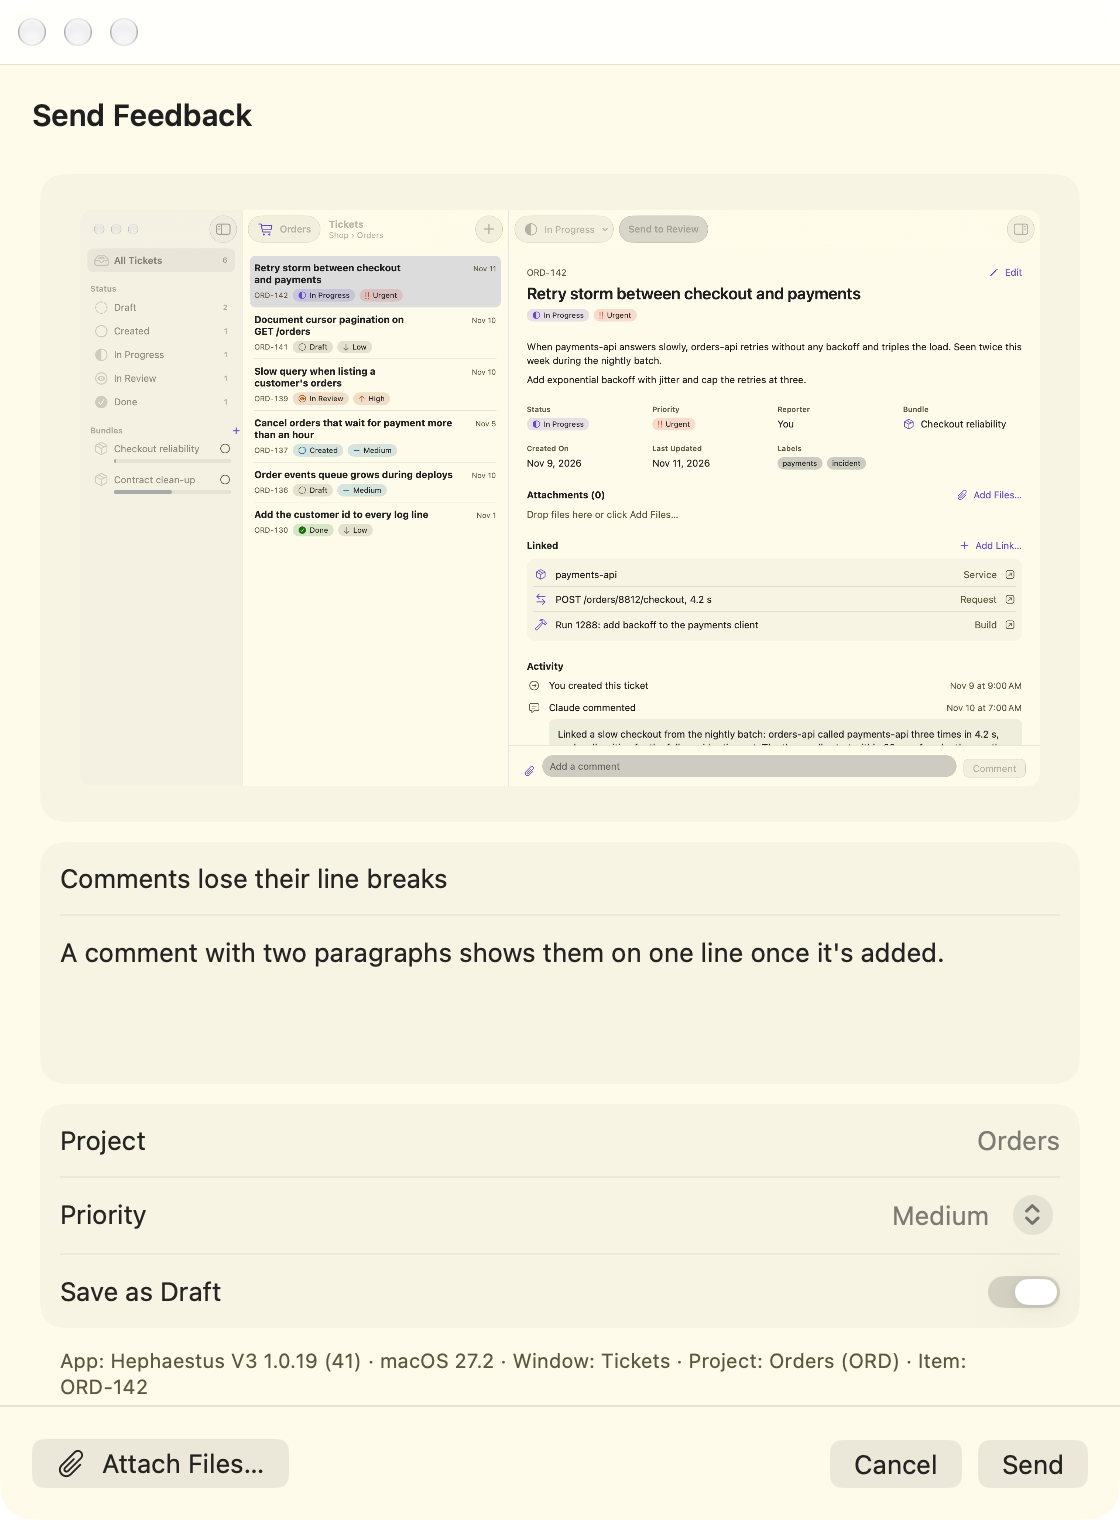
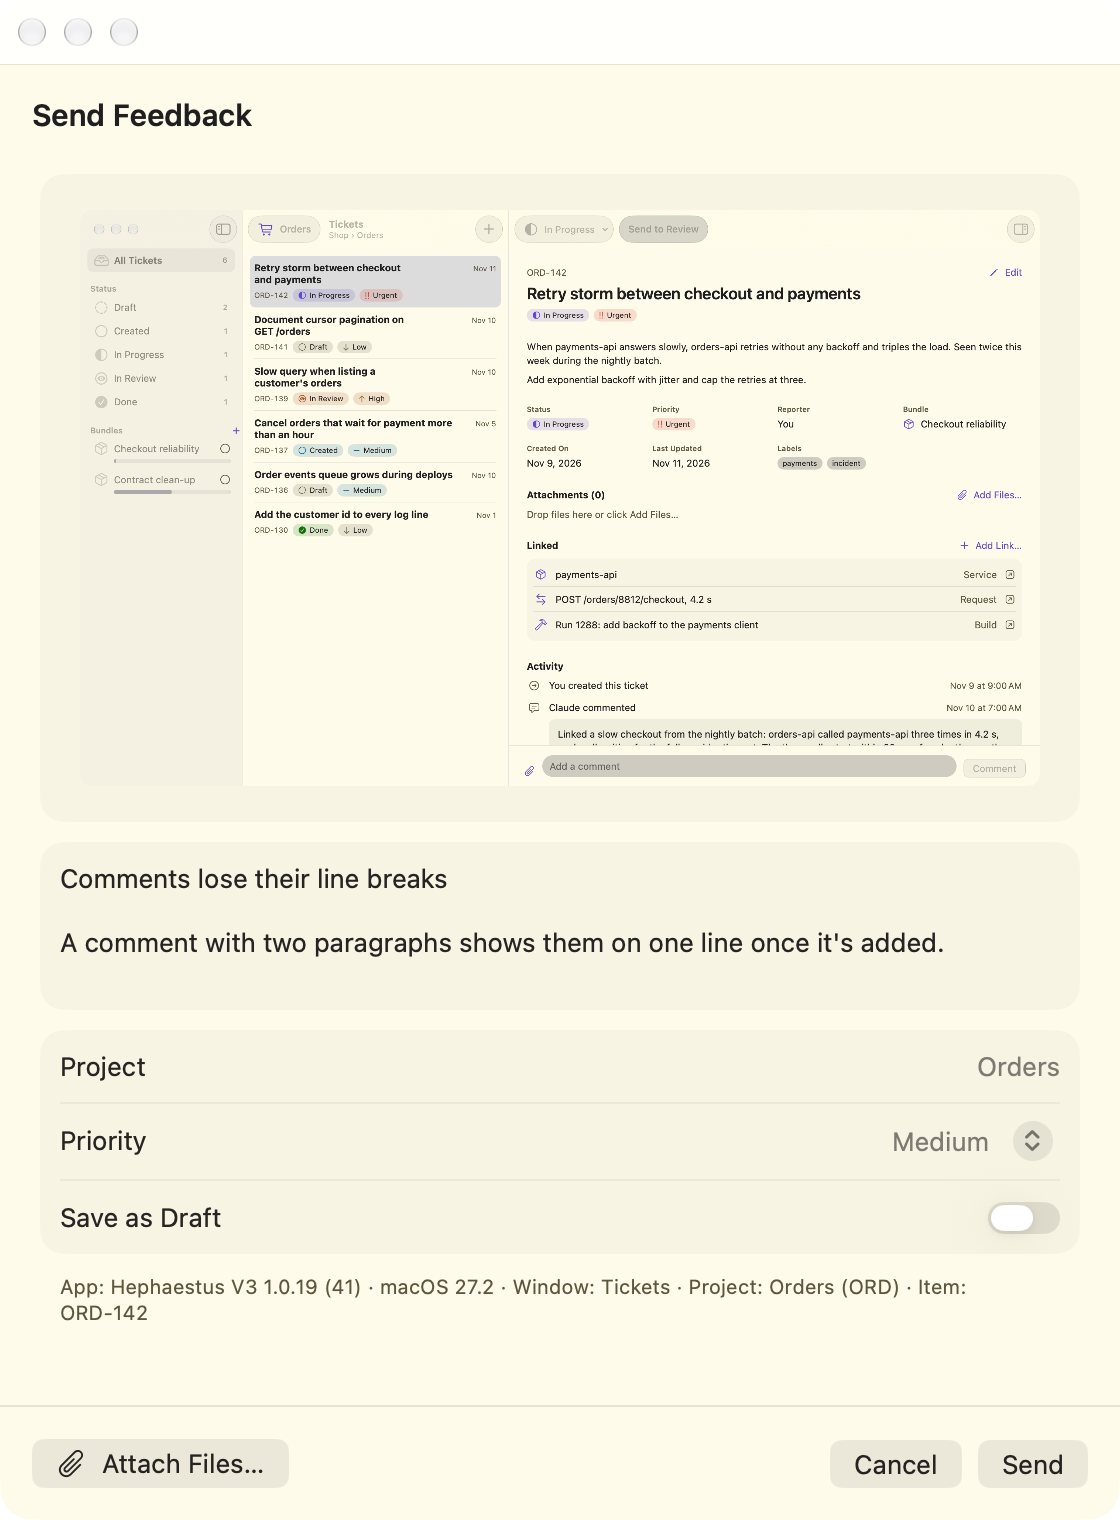
Feedback: no title field, Save as Draft off by default
The Send Feedback sheet drops its Title field: the ticket takes the
description's first line as its title, the ticket rules' provisional title,
so Send now waits for a description. Save as Draft starts off, so feedback
goes into the workflow at once.

diff --git a/HephaestusV3Kit/Tests/TicketsKitTests/FeedbackTicketTests.swift b/HephaestusV3Kit/Tests/TicketsKitTests/FeedbackTicketTests.swift
@@ -40,18 +40,19 @@ struct FeedbackTicketTests {
         FeedbackTicketModel(project: Project.sample("ORD")!, screenshot: screenshot, context: context, store: store)
     }
 
-    @Test("Send creates New Ticket's ticket in the feedback project, the context after the description, then attaches the screenshot and the files in one request")
+    @Test("Send creates New Ticket's ticket without a title, out of the drafts, in the feedback project, the context after the description, then attaches the screenshot and the files in one request")
     func send() async {
         let store = RecordingTicketStore()
         let model = model(store)
-        model.draft.title = "The ladybug hides"
-        model.draft.details = "  It sits under the divider.\n"
+        #expect(!model.draft.startsAsDraft)
+        #expect(model.draft.title.isEmpty)
+        model.draft.details = "  The ladybug hides\nIt sits under the divider.\n"
         let log = URL(fileURLWithPath: "/tmp/feedback/app.log")
         model.add([log])
         #expect(await model.send() == "FB-1")
         var expected = NewTicketDraft(projectID: "ORD")
-        expected.title = "The ladybug hides"
-        expected.details = "It sits under the divider.\n\n" + context
+        expected.startsAsDraft = false
+        expected.details = "The ladybug hides\nIt sits under the divider.\n\n" + context
         #expect(store.performed == [.create(expected), .addAttachments("FB-1", [screenshot, log])])
         #expect(model.message == nil)
     }
@@ -60,27 +61,27 @@ struct FeedbackTicketTests {
     func withoutScreenshot() async {
         let store = RecordingTicketStore()
         let model = model(store)
-        model.draft.title = "Feedback"
+        model.draft.details = "Feedback"
         model.includesScreenshot = false
         #expect(await model.send() == "FB-1")
         #expect(store.performed.count == 1)
         let uncaptured = RecordingTicketStore()
         let other = self.model(uncaptured, screenshot: nil)
-        other.draft.title = "Feedback"
+        other.draft.details = "Feedback"
         #expect(await other.send() == "FB-1")
         #expect(uncaptured.performed.count == 1)
         if case .create(let draft) = uncaptured.performed.first {
-            #expect(draft.details == context)
+            #expect(draft.details == "Feedback\n\n" + context)
         } else {
             Issue.record("No ticket was created")
         }
     }
 
-    @Test("A blank title sends nothing")
-    func blankTitle() async {
+    @Test("A blank description sends nothing: it gives the ticket its title")
+    func blankDescription() async {
         let store = RecordingTicketStore()
         let model = model(store)
-        model.draft.title = "   "
+        model.draft.details = " \n  "
         #expect(!model.canSend)
         #expect(await model.send() == nil)
         #expect(store.performed.isEmpty)
@@ -91,7 +92,7 @@ struct FeedbackTicketTests {
         let store = RecordingTicketStore()
         store.createFails = "The project's tickets can't be written."
         let model = model(store)
-        model.draft.title = "Feedback"
+        model.draft.details = "Feedback"
         #expect(await model.send() == nil)
         #expect(model.message == "The project's tickets can't be written.")
         #expect(model.canSend)
@@ -103,7 +104,7 @@ struct FeedbackTicketTests {
         let store = RecordingTicketStore()
         store.attachFails = "The attachments of one request exceed 20 MB."
         let model = model(store)
-        model.draft.title = "Feedback"
+        model.draft.details = "Feedback"
         #expect(await model.send() == nil)
         #expect(model.createdWithoutFiles == "FB-1")
         #expect(model.message == "FB-1 was created without its files: The attachments of one request exceed 20 MB.")

diff --git a/HephaestusV3Kit/Sources/TicketsKit/FeedbackTicketView.swift b/HephaestusV3Kit/Sources/TicketsKit/FeedbackTicketView.swift
@@ -8,9 +8,10 @@ import UniformTypeIdentifiers
 /// What the Send Feedback sheet holds: a new ticket, as New Ticket makes it, with the window's screenshot, the
 /// files added, and a line saying where the feedback comes from (docs/ui/tickets.md › Feedback).
 ///
-/// Send creates a regular ticket in the feedback project: the title, the description followed by the context
-/// line, the priority and the draft choice of New Ticket. Then the screenshot, unless it is left out, and the
-/// added files become the ticket's attachments, in one request.
+/// Send creates a regular ticket in the feedback project, as New Ticket does without a title: its title is the
+/// description's first line (the ticket rules' provisional title), its description what was typed followed by
+/// the context line, with New Ticket's priority and draft choice, the draft off. Then the screenshot, unless it
+/// is left out, and the added files become the ticket's attachments, in one request.
 @MainActor
 @Observable
 final class FeedbackTicketModel {
@@ -34,7 +35,10 @@ final class FeedbackTicketModel {
     @ObservationIgnored private let store: any TicketStore
 
     init(project: Project, screenshot: URL?, context: String, store: any TicketStore) {
-        draft = NewTicketDraft(projectID: project.id)
+        // Feedback goes into the workflow at once (the user's choice).
+        var draft = NewTicketDraft(projectID: project.id)
+        draft.startsAsDraft = false
+        self.draft = draft
         projectName = project.name
         self.screenshot = screenshot
         self.context = context
@@ -44,8 +48,10 @@ final class FeedbackTicketModel {
     /// The largest file a ticket takes, and the most one request takes together (docs/data.md › Attachments).
     static let attachmentLimit = 20 * 1024 * 1024
 
+    /// A description with more than spaces in it, which also gives the ticket its title; nothing being sent,
+    /// nothing created yet.
     var canSend: Bool {
-        draft.canCreate && !isSending && createdWithoutFiles == nil
+        !draft.details.trimmingCharacters(in: .whitespacesAndNewlines).isEmpty && !isSending && createdWithoutFiles == nil
     }
 
     /// Adds files, in order, leaving out those already added. A folder, or a file larger than 20 MB, adds
@@ -149,9 +155,6 @@ public struct FeedbackTicketView: View {
                 }
 
                 Section {
-                    TextField(String(localized: "Title", bundle: #bundle), text: $model.draft.title, prompt: Text("Title", bundle: #bundle))
-                        .labelsHidden()
-                        .accessibilityIdentifier("feedback.title")
                     TextField(
                         String(localized: "Description", bundle: #bundle), text: $model.draft.details,
                         prompt: Text("What happened, and what did you expect?", bundle: #bundle), axis: .vertical
@@ -362,8 +365,7 @@ private let previewContext = "App: Hephaestus V3 1.0.18 (40) · macOS 27.2 · Wi
 #Preview("Filled, Dark", traits: .appChrome, .sizeThatFitsLayout) {
     let model = FeedbackTicketModel(project: Project.sample("ORD")!, screenshot: previewScreenshot(), context: previewContext,
                                     store: SampleTicketStore())
-    model.draft.title = "The ladybug hides behind the chat panel"
-    model.draft.details = "With the chat panel open, the status bar's ladybug sits under the panel's divider."
+    model.draft.details = "The ladybug hides behind the chat panel\n\nWith the chat panel open, the status bar's ladybug sits under the panel's divider."
     return FeedbackTicketView(model: model)
         .preferredColorScheme(.dark)
 }

diff --git a/docs/ui/tickets.md b/docs/ui/tickets.md
@@ -385,15 +385,16 @@ list, on the `canvas` background.
 
 ## Feedback
 
-![The Send Feedback sheet: the Tickets window's screenshot, a title and a description, Project Orders, Priority Medium, Save as Draft on, the context line, Attach Files…, Cancel and Send](images/tickets-feedback.png)
-*Send Feedback over the Tickets window's screenshot: New Ticket's fields, the feedback project, and the line
-that says where the feedback comes from.*
+![The Send Feedback sheet: the Tickets window's screenshot, a description, Project Orders, Priority Medium, Save as Draft off, the context line, Attach Files…, Cancel and Send](images/tickets-feedback.png)
+*Send Feedback over the Tickets window's screenshot: a description whose first line becomes the title, the
+feedback project, New Ticket's priority and draft switch, and the line that says where the feedback comes from.*
 
 V2's feedback, brought back by the user on 17 November 2026: the ladybug of every window's
 [status bar](navigation.md#status-bar), or Help ▸ Send Feedback… (⇧⌘B), sends feedback about that window as a
 **regular ticket** of the feedback project chosen in [Settings ▸ General](navigation.md#settings--general)
 (the user's choice). There is no feedback chat and no Claude: the ticket is what New Ticket makes, with the
-window's screenshot and the files added as its attachments.
+window's screenshot and the files added as its attachments. It has no title field: like any ticket created
+without one, it takes the description's first line as its title (the user's choice).
 
 **Flow.**
 
@@ -416,15 +417,17 @@ window's screenshot and the files added as its attachments.
 | Screenshot | `feedback.screenshot` | The PNG scaled to fit 480 × 300 pt, centered; at 40 % opacity while left out. A click opens it in Quick Look. Its label is "Screenshot of the window". |
 | Eye | `feedback.screenshot.toggle` | In the screenshot's top-right corner, 8 pt in: `eye`, white, on a 24 pt black circle at 55 % opacity, shown while the pointer is over the screenshot; `eye.slash` while the screenshot is left out, shown at all times. A click leaves the screenshot out or puts it back. Tooltip and label: "Exclude Screenshot", or "Include Screenshot". The screenshot is in each time the sheet opens. |
 | No screenshot | `feedback.screenshot.missing` | When the window couldn't be captured: `eye.slash` and "The window could not be captured.", in `textSecondary`. Send then sends no screenshot. |
-| First group | `feedback.title`, `feedback.description` | New Ticket's **Title**, and its **Description** with "What happened, and what did you expect?" as placeholder, four lines high, growing to eight. Then the added files ([Added files](#added-files)). |
-| Second group | `feedback.project`, `feedback.priority`, `feedback.draft.toggle` | **Project**: the feedback project's name, read-only. New Ticket's **Priority** (Medium) and **Save as Draft** (on). Footer: the context line, `caption`, `textSecondary`, selectable (`feedback.context`). |
+| First group | `feedback.description` | **Description**, with "What happened, and what did you expect?" as placeholder, four lines high, growing to eight; its first line becomes the ticket's title. Then the added files ([Added files](#added-files)). No title field (the user's choice). |
+| Second group | `feedback.project`, `feedback.priority`, `feedback.draft.toggle` | **Project**: the feedback project's name, read-only. New Ticket's **Priority** (Medium) and **Save as Draft**, off (the user's choice). Footer: the context line, `caption`, `textSecondary`, selectable (`feedback.context`). |
 | Message | `feedback.message` | Why a file wasn't added, or why Send failed, in `danger`, under the form. |
 | Bottom bar | `feedback.attach`, `feedback.cancel`, `feedback.send` | Under a divider: **Attach Files…** (`paperclip`) at the leading edge; at the trailing edge a small progress indicator while sending, **Cancel** (Escape) and **Send** (Return). |
 
-- **Send** is enabled while the title holds more than spaces and line breaks, nothing is being sent, and the
-  ticket hasn't been created yet. It creates the ticket as New Ticket's **Create** does, in the feedback
-  project, with the title, the priority, the draft choice, and as description what was typed, trimmed, a
-  blank line, then the context line (the context line alone when nothing was typed). Then the screenshot,
+- **Send** is enabled while the description holds more than spaces and line breaks, nothing is being sent,
+  and the ticket hasn't been created yet. It creates the ticket as New Ticket's **Create** does without a
+  title, in the feedback project, with the priority, the draft choice, and as description what was typed,
+  trimmed, a blank line, then the context line. The ticket rules give it the provisional title: the
+  description's first line that is neither empty nor a heading, cut to 60 characters
+  ([Data › Tickets](../data.md)). Then the screenshot,
   unless it is left out, and the added files, in order, are attached in one request. While it runs, the form,
   Attach Files…, the files' remove buttons and Cancel are disabled.
 - **Creation fails**: the sheet stays, with the reason in the message line and what was typed.
@@ -785,7 +788,8 @@ pointed at, such as "TicketsRootView, iPhone, Filtered".
 - "Largest Text": Shop at the largest Dynamic Type size.
 
 `FeedbackTicketView` (size that fits, on `FeedbackTicketModel` over `SampleTicketStore`, with a gradient
-as screenshot): "Empty", "Filled, Dark", "Screenshot Left Out", "Not Captured".
+as screenshot): "Empty", "Filled, Dark" (a description of two paragraphs), "Screenshot Left Out", "Not
+Captured".
 
 `AddLinkSheet` and `BundleSheet` (size that fits): "Add Link", "New Bundle", "Edit Bundle, Dark".
 

diff --git a/docs/architecture.md b/docs/architecture.md
@@ -1550,9 +1550,9 @@ Spec: [Tickets](ui/tickets.md). Data: `TicketData` ([TicketData](#ticketdata)) a
 `TicketsDashboardWidget(widget:context:)`, `FeedbackTicketView(project:store:screenshot:context:onFinish:)`.
 
 **Feedback ticket.** `FeedbackTicketModel` (`@MainActor @Observable`) holds a `NewTicketDraft` on the
-feedback project, `screenshot: URL?`, `includesScreenshot` (true), `files: [URL]`, `context`, `projectName`,
-`isSending`, `message` and `createdWithoutFiles`, over `any TicketStore`. `canSend`: a title, not sending,
-nothing created. `add(_:)` refuses a folder or a file over `attachmentLimit` (20 MiB) for the whole call, else
+feedback project, without a title and with `startsAsDraft` false, `screenshot: URL?`, `includesScreenshot` (true), `files: [URL]`, `context`, `projectName`,
+`isSending`, `message` and `createdWithoutFiles`, over `any TicketStore`. `canSend`: a description that isn't
+blank (it gives the ticket its provisional title), not sending, nothing created. `add(_:)` refuses a folder or a file over `attachmentLimit` (20 MiB) for the whole call, else
 appends each new URL. `details(_:context:)` is the trimmed text, a blank line and the context line, or the
 context line alone. `send()` performs `.create` with that description, then, when there is anything,
 `.addAttachments(id, screenshot + files)`; it returns the id, or nil with `message` set (and

diff --git a/docs/decisions.md b/docs/decisions.md
@@ -235,7 +235,7 @@ feedback project set in Settings, without which the ladybug doesn't show.
 
 | Question | Default chosen | Where |
 | --- | --- | --- |
-| What does Send make? | A ticket as New Ticket makes it, with its Title, Description, Priority and Save as Draft, in the feedback project; the screenshot and the added files become its attachments. No chat, no Claude. | [UI › Tickets › Feedback](ui/tickets.md#feedback) |
+| What does Send make? | A ticket as New Ticket makes it without a title, in the feedback project: its title is the description's first line, and Save as Draft starts off (the user's choice). The screenshot and the added files become its attachments. No chat, no Claude. | [UI › Tickets › Feedback](ui/tickets.md#feedback) |
 | Where does it say what the feedback is about? | A context line after the description: the app's version, macOS, the window, its project and its selected item. V2's device has no counterpart. | [UI › Tickets › Context line](ui/tickets.md#context-line) |
 | What follows Send? | The ticket opens in the feedback project's Tickets window, as V2 showed its feedback chat. | [UI › Tickets › Feedback](ui/tickets.md#feedback) |
 | What if the files can't be attached? | The ticket stays, without them; the sheet says so and offers Show Ticket, so no second ticket is made. | same |
